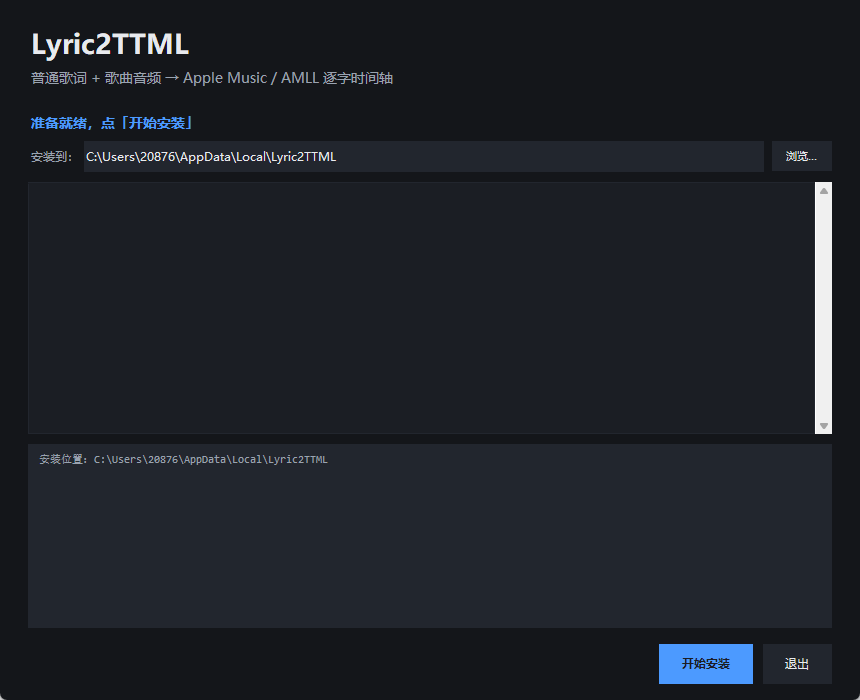
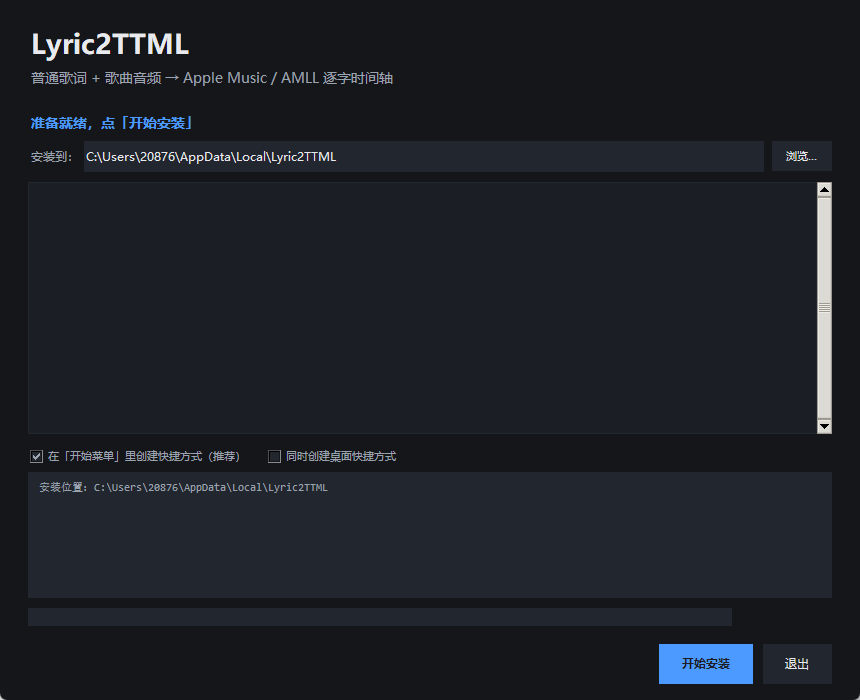
feat(安装器): 补上真实进度条 + 桌面快捷方式勾选项（任务书 E 的两条缺口）
## 1. 真实进度条（任务书："真实进度，不伪造百分比"）

**改前：完全没有进度** —— 界面上只有滚动日志和一个"补全中…"的文字，
用户看不到"还剩多少"。

**改后**：一条 ttk 进度条 + 右侧读数，口径**分两种，都是真实量**：
* 解压主程序：按**字节**（PyInstaller onefile 有真实回调）→ `解压 320/650 MB`；
* 环境检查/补全：按**完成的清单条目数** → `3/7  42%`；
* **总量未知时只显示文字、不显示百分比**（`pb_set(0, 0, "正在解压…")`
  走 indeterminate）—— 不猜一个数字出来。

⚠ 样式踩了一次：`thickness=8` 时进度条细得像一条**分隔线**，截图里根本认不出
那是进度条；改成 14 + `borderwidth=0` + `relief=flat` 才像。并且必须
`theme_use("clam")` —— Windows 原生主题会**忽略**自定义背景色。

## 2. 桌面快捷方式：后端早就支持，界面却没人接（"看着像已实现"的缺口）

`win_integration.integrate()` 一直有 `desktop=True/False`，
`make_shortcut()` 里也写着 `getattr(self, "want_desktop", False)` ——
**但界面上没有任何地方设置 `want_desktop`**，所以用户**永远拿不到桌面图标**。

现在加了两个勾选框：
* 「在「开始菜单」里创建快捷方式（推荐）」—— 默认**勾选**；
* 「同时创建桌面快捷方式」—— 默认**不勾**（任务书要求"避免未经同意创建桌面图标"），
  勾选后经 `trace_add` 同步给 `want_desktop`。

⇒ 这类"后端能、界面没接"的缺口，**属性断言永远查不出来**，只有看界面才发现
（和上一轮那个"标题静态字面量"是同一类问题）。

## 3. `--shot` 的副作用，如实记下来

`--shot` 用 `-topmost` + `focus_force()` 抢前台焦点 —— 实测**把用户的开始菜单
顶了出来**（那次抓到的图里是开始菜单和桌面图标，不是安装器）。
所以：**这是"抢屏幕"的操作，只能由人主动调用，绝不能进自动化测试**。
已在 docstring 里写明，并核对过：仓库里没有任何自动化测试调用安装器的 `--shot`
（`desktop/uicheck.py --shot` 是它自己的 offscreen 截图旗标，不抢焦点）。
自动化要验安装器请用 `--e2e`（无界面）或 `tools/test_installer_theme.py`（只读源码）。

## 验证

* `installer_gui.py --shot` 直出界面图（人工看图确认进度条与勾选框已就位）；
* `tools/test_installer_theme.py` 13/13 ✓；
* `tools/test_uninstall.py` 6/6、`selftest.py` 全绿、`desktop/selftest.py` 14/14；
* 已核对仓库里没有任何自动化测试调用安装器 `--shot`。

## 未验证

* 进度条的**真实推进**只在人点「开始安装」时才发生，本轮**没有实跑安装**
[…]

Changed region(s): [[0.0302, 0.63, 0.4535, 0.66], [0.9372, 0.24, 0.9674, 0.63], [0.0302, 0.69, 0.393, 0.72]]

diff --git a/installer_gui.py b/installer_gui.py
@@ -70,6 +70,28 @@ CYAN = "#22d3ee"        # 强调/进度
 FONT = "Microsoft YaHei UI"
 
 
+def _style_progressbar(root: tk.Tk) -> None:
+    """给 ttk 进度条套上我们的调色板（默认样式是浅灰的，在深色界面上很突兀）。"""
+    try:
+        from tkinter import ttk
+        st = ttk.Style(root)
+        # clam 主题才吃自定义颜色（Windows 原生主题会忽略背景色）
+        try:
+            st.theme_use("clam")
+        except Exception:                                   # noqa: BLE001
+            pass
+        st.configure("L2T.Horizontal.TProgressbar",
+                     troughcolor=PANEL2, background=CYAN,
+                     bordercolor=PANEL2, lightcolor=CYAN, darkcolor=CYAN,
+                     thickness=14)
+        # ⚠ `thickness` 太小（试过 8）时，进度条看起来就是一条**分隔线**，
+        # 用户根本认不出那是进度条（截图里一眼可见）。14 才像进度条。
+        st.configure("L2T.Horizontal.TProgressbar", borderwidth=0,
+                     relief="flat")
+    except Exception:                                       # noqa: BLE001
+        pass
+
+
 def _font(size: int, bold: bool = False):
     """统一字体：字号与桌面版对齐，中文用同一族。"""
     return (FONT, size, "bold") if bold else (FONT, size)
@@ -216,6 +238,14 @@ def shot_mode() -> bool:
     正常双击会先 `relaunch_elevated()` 弹 UAC，自动化测不了；
     `--e2e` 又是无界面模式。所以专门开一个：开真实窗口、画完整界面、
     **不起任何后台作业**（不下载、不解压、不写注册表），存图即退。
+
+    ⚠⚠ **这是"抢屏幕"的操作，只能由人主动调用，绝不能进自动化测试。**
+    实测副作用（真发生过，得如实记下来）：`-topmost` + `focus_force()` 会把
+    前台焦点从用户正在用的窗口抢走 —— 有一次截图恰好把**用户的开始菜单**
+    顶了出来（抓到的图里是开始菜单和桌面图标）。在开发者自己机器上跑一次
+    无所谓，但**别放进 CI、别在别人用电脑时跑**。
+    自动化要验安装器请用 `--e2e`（无界面）或 `tools/test_installer_theme.py`
+    （只读源码比对颜色），那两个都不会抢焦点。
     """
     return "--shot" in sys.argv
 
@@ -257,6 +287,7 @@ class Installer:
 
         self._build()
         root.after(120, self._pump)
+        _style_progressbar(root)
         if not autostart:
             # 预览/截图：停在"准备就绪"这一屏，不碰任何作业
             self.set_sub("准备就绪，点「开始安装」", ACCENT)
@@ -340,12 +371,52 @@ class Installer:
         self.root.bind_all("<MouseWheel>", self._on_wheel)
         self.rows: dict = {}
 
+        # ---------------------------------------------------------------
+        # 安装选项：桌面快捷方式**必须由用户勾**（任务书 E："快捷方式选择"）
+        # ---------------------------------------------------------------
+        # ⚠ 以前 `win_integration.integrate()` **已经支持** desktop=True/False，
+        # 但界面上**没有任何地方设置 `want_desktop`** ⇒ 用户永远拿不到桌面图标，
+        # 而代码里那句 `getattr(self, "want_desktop", False)` 看着像"已实现"。
+        # 这种"后端能、界面没接"的缺口属性断言查不出来，只有看界面才发现。
+        opts = tk.Frame(self.root, bg=BG)
+        opts.pack(fill="x", padx=28, pady=(2, 6))
+        self.var_desktop = tk.BooleanVar(value=False)
+        self.var_sm = tk.BooleanVar(value=True)
+        for var, text in ((self.var_sm, "在「开始菜单」里创建快捷方式（推荐）"),
+                          (self.var_desktop, "同时创建桌面快捷方式")):
+            tk.Checkbutton(
+                opts, text=text, variable=var, bg=BG, fg=DIM,
+                activebackground=BG, activeforeground=FG, selectcolor=PANEL2,
+                font=("Microsoft YaHei UI", 9), bd=0, highlightthickness=0,
+                anchor="w").pack(side="left", padx=(0, 18))
+        # 桌面默认不勾：任务书要求"避免未经同意创建桌面图标"。
+        self.want_desktop = False
+        self.var_desktop.trace_add("write", self._on_desktop_toggle)
+
         # 日志
-        self.log = tk.Text(self.root, height=7, bg=PANEL2, fg=DIM,
+        self.log = tk.Text(self.root, height=6, bg=PANEL2, fg=DIM,
                            insertbackground=FG, relief="flat", wrap="word",
                            font=("Consolas", 9), padx=10, pady=8)
         self.log.pack(fill="both", expand=True, padx=28)
         self.log.configure(state="disabled")
+
+        # ---------------------------------------------------------------
+        # 进度：**真实进度，不伪造百分比**（任务书 E 明确要求）
+        # ---------------------------------------------------------------
+        # 口径：主程序解压（按字节，PyInstaller 的 onefile 有真实回调）+
+        #      环境检查/补全（按"清单条目完成数"计数）。
+        # 两者都不是"转圈动画"，每一项都能对上日志里的一行。
+        pbar = tk.Frame(self.root, bg=BG)
+        pbar.pack(fill="x", padx=28, pady=(8, 0))
+        self.pb = ttk.Progressbar(pbar, mode="determinate", maximum=100,
+                                  style="L2T.Horizontal.TProgressbar")
+        self.pb.pack(fill="x", side="left", expand=True)
+        self.lb_pct = tk.Label(pbar, text="", bg=BG, fg=DIM, width=12,
+                               anchor="e", font=("Microsoft YaHei UI", 9))
+        self.lb_pct.pack(side="right", padx=(10, 0))
+        self._pb_total = 0        # 本轮共多少项（0 = 未知，不显示百分比）
+        self._pb_done = 0
+        self._pb_mode = ""
 
         # 按钮区
         bar = tk.Frame(self.root, bg=BG)
@@ -357,6 +428,50 @@ class Installer:
         self.btn_go = self._btn(bar, "开始补全", self.start_install,
                                 side="right", primary=True)
         self.btn_go.configure(state="disabled")
+
+    def _on_desktop_toggle(self, *_a) -> None:
+        """勾选桌面快捷方式时，把选择同步给 `win_integration`。"""
+        self.want_desktop = bool(self.var_desktop.get())
+
+    # ------------------------------------------------------------ 真实进度
+    def pb_set(self, done: int, total: int, label: str = "") -> None:
+        """按"完成项 / 总项"更新进度条（**不做假动画**）。
+
+        `total <= 0` 表示"还不知道总量" —— 这时**只显示文字、不显示百分比**，
+        绝不猜一个数字出来（任务书要求真实进度）。
+        """
+        self._pb_done, self._pb_total = done, total
+        if total > 0:
+            pct = max(0, min(100, int(done * 100 / total)))
+            self.pb.configure(mode="determinate", value=pct)
+            self.lb_pct.configure(
+                text=f"{label} {done}/{total}" if label else f"{done}/{total}  {pct}%")
+        else:
+            self.pb.configure(mode="indeterminate", value=0)
+            self.lb_pct.configure(text=label)
+        try:
+            self.root.update_idletasks()
+        except Exception:                                   # noqa: BLE001
+            pass
+
+    def pb_bytes(self, done: int, total: int) -> None:
+        """解压阶段：按**字节**报进度（onefile 解包能拿到真实字节数）。"""
+        if total <= 0:
+            self.pb_set(0, 0, "正在解压…")
+            return
+        pct = max(0, min(100, int(done * 100 / total)))
+        self.pb.configure(mode="determinate", value=pct)
+        self.lb_pct.configure(
+            text=f"解压 {done / 1048576:.0f}/{total / 1048576:.0f} MB")
+        try:
+            self.root.update_idletasks()
+        except Exception:                                   # noqa: BLE001
+            pass
+
+    def pb_reset(self) -> None:
+        self._pb_done = self._pb_total = 0
+        self.pb.configure(mode="determinate", value=0)
+        self.lb_pct.configure(text="")
 
     def _on_wheel(self, event) -> None:
         """鼠标滚轮滚动清单。
